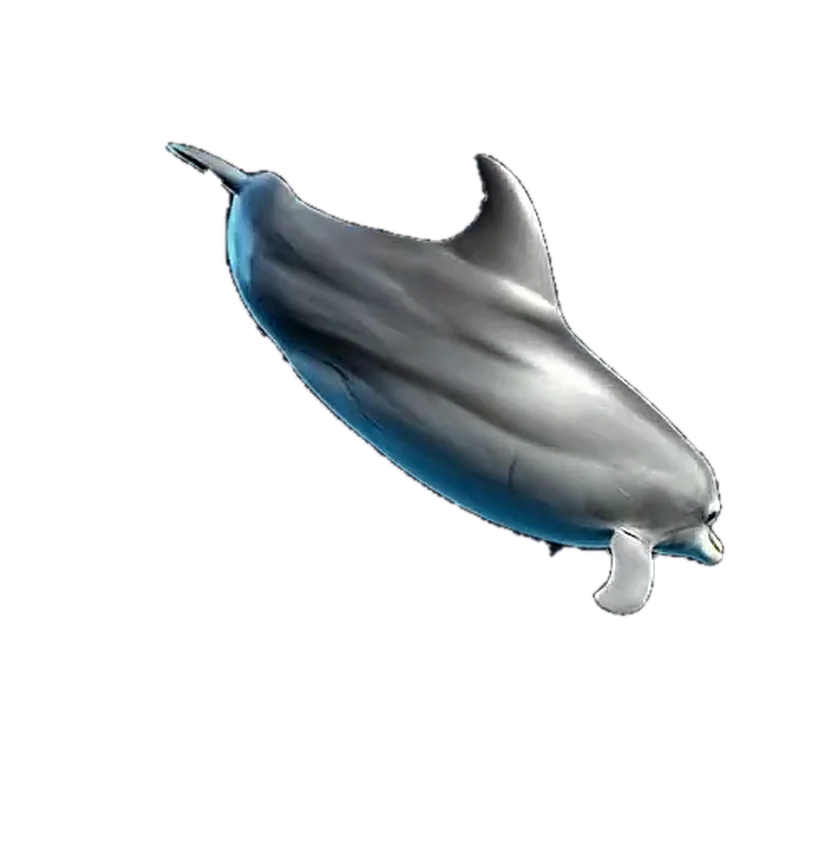
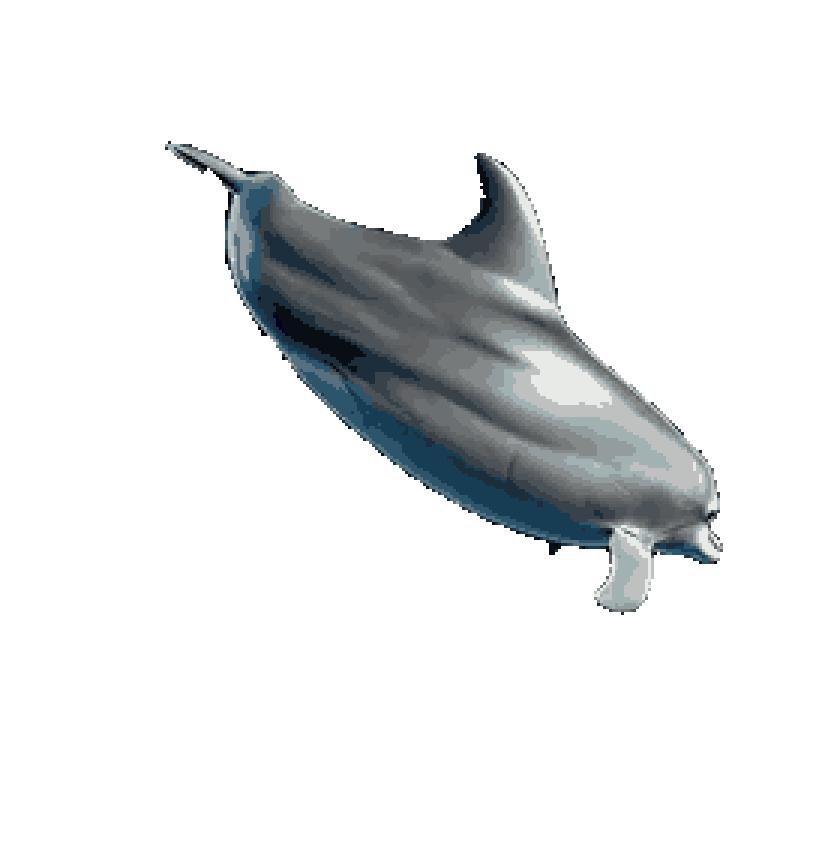
Focus Aero: retro touch — a looping sparkle GIF on whatever is due, and the dolphin's frames dithered to a small palette with hard edges
Claude-Session: https://claude.ai/code/session_01HNXf8HvpZKxZ2L1VgheEA9

diff --git a/App.js b/App.js
@@ -2017,11 +2017,14 @@ const AERO = {
   pileFrames: [ // stop-motion: fruit added to the pile one piece at a time as eat time builds
     require("./assets/aero3/pile-0.webp"), require("./assets/aero3/pile-1.webp"), require("./assets/aero3/pile-2.webp"), require("./assets/aero3/pile-3.webp"), require("./assets/aero3/pile-4.webp"), require("./assets/aero3/pile-5.webp"), require("./assets/aero3/pile-6.webp"),
   ],
+  sparkle: require("./assets/aero3/sparkle.gif"),
   pod: require("./assets/aero3/pod.webp"), podLit: require("./assets/aero3/pod_lit.webp"),
 };
 const AERO_INK = "#0b3d6e";
 const AERO_ORDER = ["stretch", "walk", "bathroom", "water", "eat"]; // far to near (the fruit sits in front of the glass)
 const AERO_BOB = { walk: 6, stretch: 4 };
+// Retro touch: a looping GIF of twinkling stars sits on whatever is due. [center x, center y, size] as fractions of the layer.
+const AERO_SPARK = { walk: [0.68, 0.6, 0.42], stretch: [0.5, 0.5, 1.5], water: [0.4, 0.45, 0.95], eat: [0.52, 0.42, 0.7], bathroom: [0.5, 0.45, 0.95] };
 function AeroFocus({ needs, left, onPlay, onEnd, look, setLook }) {
   const ins = useSafeAreaInsets();
   const win = useWindowDimensions();
@@ -2120,6 +2123,8 @@ function AeroThing({ n, i, s, ox, oy, left, onPlay }) {
         <Image source={AERO.pod} style={{ width: w, height: h }} />
         <Animated.Image source={AERO.podLit} style={{ position: "absolute", left: 0, top: 0, width: w, height: h, opacity: full ? pulse.interpolate({ inputRange: [0, 1], outputRange: [0.85, 1] }) : Math.pow(pct / 100, 1.3) }} />
       </>}
+      {full && (() => { const [cx, cy, k] = AERO_SPARK[n.key], d = Math.max(w, h) * k * (isTurtle ? 0.6 : 1) * (n.key === "walk" ? 0.5 : 0.6);
+        return <Image source={AERO.sparkle} fadeDuration={0} pointerEvents="none" style={{ position: "absolute", left: w * cx - d / 2, top: h * cy - d / 2, width: d, height: d }} />; })()}
       <View style={[st.aeroLabel, { position: "absolute", top: labelTop, alignSelf: "center" }, full && { backgroundColor: "#ffffff", borderColor: "#ffb020" }]}>
         <Text style={st.aeroLabelTxt} numberOfLines={1}>{full ? "! " : ""}{n.name} · {left}</Text>
       </View>

diff --git a/tools/aero/retro/retro.py b/tools/aero/retro/retro.py
@@ -1,0 +1,47 @@
+# The retro touch for the Focus scene.
+#   sparkle: a looping GIF of twinkling four-point stars (1-bit transparency, chunky pixels), shown on whatever is due.
+#   dither:  give cut-out frames the GIF look: a small colour palette with visible dithering, hard edges, chunky pixels.
+# Usage: python3 retro.py sparkle <out.gif> | python3 retro.py dither <out_dir> <prefix> <frame.webp>...
+import sys, os, math, random
+from PIL import Image
+
+def sparkle(out):
+    G, UP, N = 72, 3, 16                      # grid, upscale, frames
+    random.seed(5)
+    stars = [(14, 15, 13, 0, 0), (54, 12, 9, 5, 1), (56, 42, 14, 10, 0), (20, 54, 10, 3, 2), (36, 32, 7, 8, 1), (10, 36, 6, 12, 2), (44, 62, 8, 14, 0)]  # x, y, size, phase, colour
+    cols = [((255, 255, 255), (190, 240, 255)), ((255, 255, 255), (255, 244, 170)), ((255, 255, 255), (255, 200, 240))]
+    frames = []
+    for f in range(N):
+        im = Image.new("P", (G, G), 0); im.putpalette([255, 0, 255] + [255, 255, 255, 190, 240, 255, 255, 244, 170, 255, 200, 240] + [0] * (256 * 3 - 15))
+        px = im.load()
+        for x, y, size, ph, c in stars:
+            t = ((f + ph) % N) / N; k = math.sin(math.pi * min(1, t * 2)) if t < 0.5 else 0   # twinkle for half the loop
+            if f == 0: k = max(k, 0.6 if ph % 2 == 0 else 0)                                   # frame 0 reads fine as a still
+            r = int(round(size * k))
+            if r < 1: continue
+            tint = 2 + c
+            for d in range(-r, r + 1):
+                w = 1 if abs(d) > r * 0.45 else 2                                             # long thin arms
+                for e in range(-w + 1, w):
+                    for (ax, ay) in ((x + d, y + e), (x + e, y + d)):
+                        if 0 <= ax < G and 0 <= ay < G: px[ax, ay] = tint if abs(d) > r * 0.5 else 1
+            for d in range(-r // 3, r // 3 + 1):                                              # short diagonals
+                for (ax, ay) in ((x + d, y + d), (x + d, y - d)):
+                    if 0 <= ax < G and 0 <= ay < G: px[ax, ay] = 1
+        frames.append(im.resize((G * UP, G * UP), Image.NEAREST))
+    frames[0].save(out, save_all=True, append_images=frames[1:], duration=90, loop=0, transparency=0, disposal=2, optimize=False)
+    print(out, os.path.getsize(out), "bytes")
+
+def dither(out_dir, prefix, files, cell=3, colours=20):
+    for j, f in enumerate(files):
+        im = Image.open(f).convert("RGBA"); W, H = im.size
+        small = im.resize((W // cell, H // cell), Image.LANCZOS)
+        a = small.getchannel("A").point(lambda v: 255 if v > 110 else 0)                       # hard edge, like GIF transparency
+        rgb = small.convert("RGB").quantize(colours, method=Image.MEDIANCUT, dither=Image.FLOYDSTEINBERG).convert("RGB")
+        o = Image.merge("RGBA", (*rgb.split(), a)).resize(((W // cell) * cell, (H // cell) * cell), Image.NEAREST)
+        canvas = Image.new("RGBA", (W, H), (0, 0, 0, 0)); canvas.paste(o, (0, 0))
+        canvas.save(os.path.join(out_dir, f"{prefix}{j:02d}.webp"), lossless=True, method=6)
+
+if __name__ == "__main__":
+    if sys.argv[1] == "sparkle": sparkle(sys.argv[2])
+    else: dither(sys.argv[2], sys.argv[3], sys.argv[4:])
